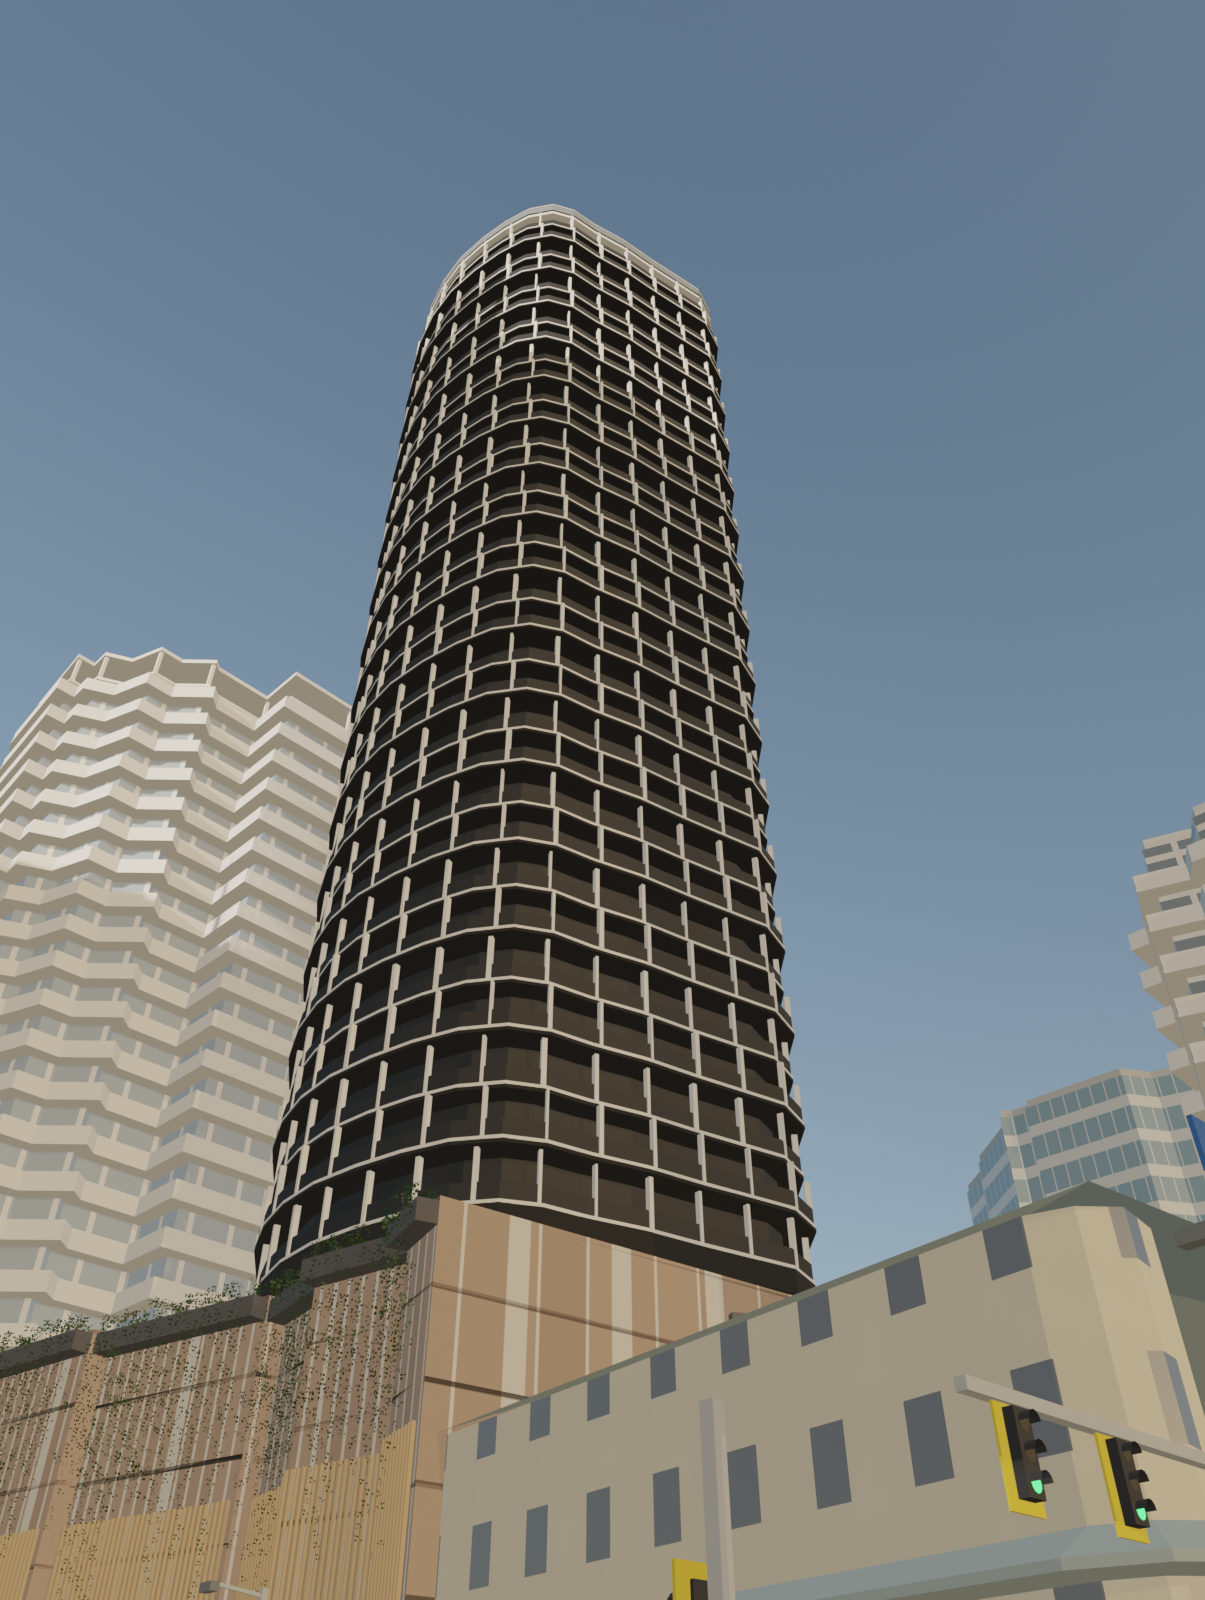
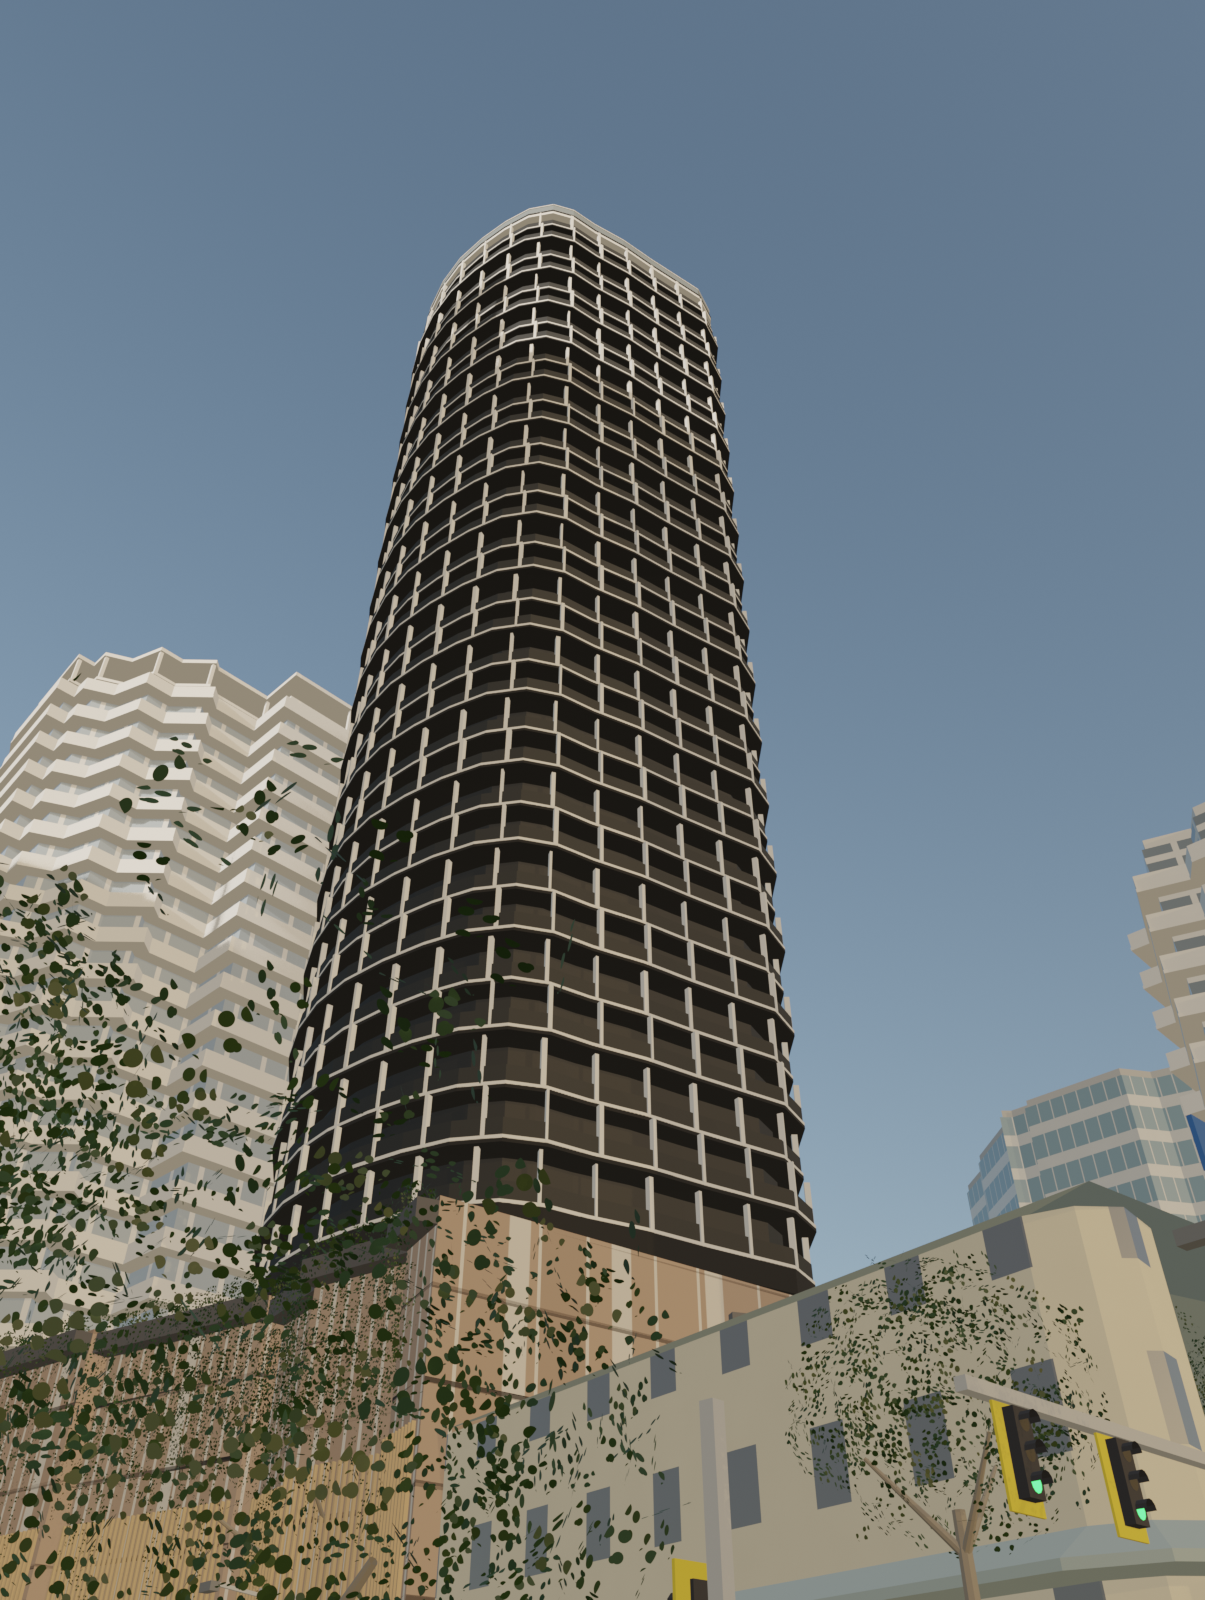
Spire 7i: keep trees in photo-cam renders
photo_cam hid the whole trees collection for street cams near a tree,
so the pair renders showed no trees. The 6 m near clip already keeps
crowns off the lens. Re-rendered the 9 photo cams.

diff --git a/tools/blender/spire/preview.py b/tools/blender/spire/preview.py
@@ -604,8 +604,7 @@ def photo_cam(c, out_dir, look):
     W, H = c["size"]
     k = 1600 / max(W, H)
     hide(["logistics"], c["stage"] == "as_built")
-    hide(["trees"], z - L.ground_z(x, y) < 3.0 and any(
-        math.hypot(tx - x, ty - y) < 25.0 for tx, ty, _, _ in L.tree_points()))   # street cams: trees in front block the view (photos taken from clear spots)
+    # trees stay in: the 6 m near clip on street cams removes any crown right on the lens
     path = os.path.join(out_dir, "%s_render.png" % c["id"])
     sec = render(path, int(round(W * k)), int(round(H * k)))
     hide(["logistics", "trees"], False)
